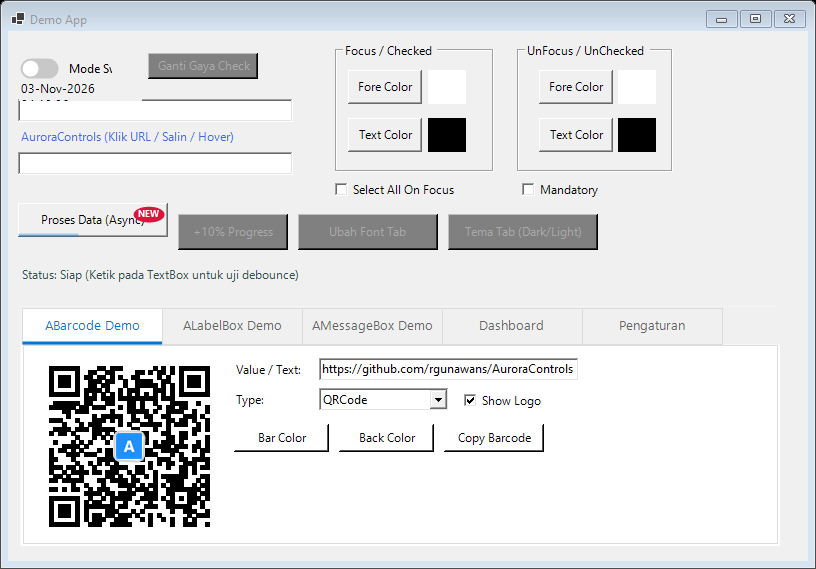
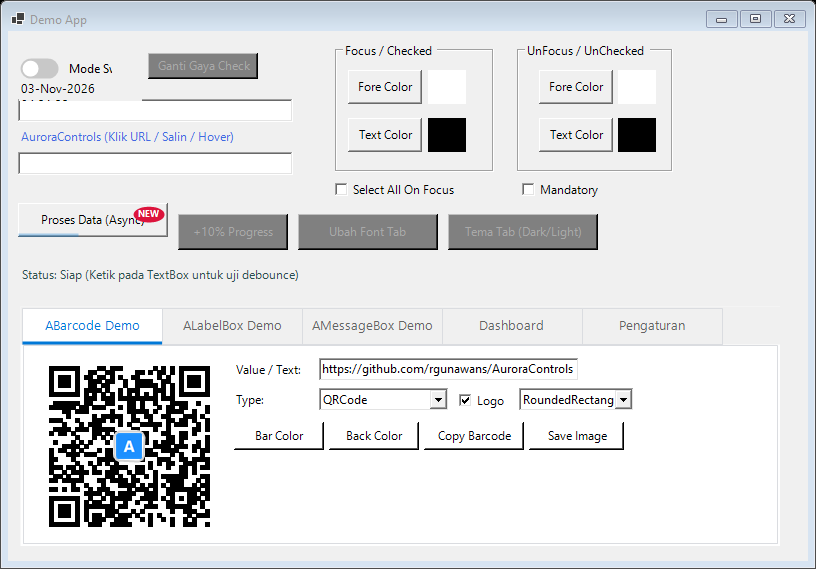
feat(demo): integrate ABarcode showcase into DemoProject and update documentation

Changed region(s): [[0.2757, 0.7469, 0.7659, 0.8067], [0.5515, 0.6573, 0.7966, 0.717]]

diff --git a/src/AuroraControls.Tests/ScreenshotGenerator.cs b/src/AuroraControls.Tests/ScreenshotGenerator.cs
@@ -42,6 +42,7 @@ namespace AuroraControls.Tests
                 CaptureMessageBox(Path.Combine(outDir, "component_amessagebox.png"));
                 CaptureLabelTimer(Path.Combine(outDir, "component_alabeltimer.png"));
                 CaptureLabelBox(Path.Combine(outDir, "component_alabelbox.png"));
+                CaptureBarcode(Path.Combine(outDir, "component_abarcode.png"));
             });
             thread.SetApartmentState(ApartmentState.STA);
             thread.Start();
@@ -522,6 +523,91 @@ namespace AuroraControls.Tests
                 EnableCopyOnClick = true
             };
             form.Controls.Add(lbl3);
+
+            form.Show();
+            Application.DoEvents();
+
+            using var bmp = new Bitmap(form.Width, form.Height);
+            form.DrawToBitmap(bmp, new Rectangle(0, 0, form.Width, form.Height));
+            bmp.Save(filePath, ImageFormat.Png);
+            form.Close();
+        }
+
+        private void CaptureBarcode(string filePath)
+        {
+            using var form = new Form
+            {
+                ClientSize = new Size(580, 240),
+                BackColor = Color.White,
+                FormBorderStyle = FormBorderStyle.None,
+                StartPosition = FormStartPosition.Manual,
+                Location = new Point(100, 100)
+            };
+
+            var title = new Label
+            {
+                Text = "ABarcode Component (1D & 2D Barcode, Color, Logo)",
+                Font = new Font("Segoe UI", 12f, FontStyle.Bold),
+                ForeColor = Color.FromArgb(33, 37, 41),
+                Location = new Point(20, 15),
+                AutoSize = true
+            };
+            form.Controls.Add(title);
+
+            // Sample Aurora logo
+            var logo = new Bitmap(36, 36);
+            using (var g = Graphics.FromImage(logo))
+            {
+                g.SmoothingMode = SmoothingMode.AntiAlias;
+                g.Clear(Color.DodgerBlue);
+                using (var f = new Font("Segoe UI", 16f, FontStyle.Bold))
+                using (var b = new SolidBrush(Color.White))
+                using (var sf = new StringFormat { Alignment = StringAlignment.Center, LineAlignment = StringAlignment.Center })
+                {
+                    g.DrawString("A", f, b, new RectangleF(0, 0, 36, 36), sf);
+                }
+            }
+
+            // QR Code with Logo & Custom ForeColor
+            var qr = new ABarcode
+            {
+                Location = new Point(25, 50),
+                Size = new Size(160, 160),
+                BarcodeType = BarcodeType.QRCode,
+                Value = "https://github.com/rgunawans/AuroraControls",
+                ForeColor = Color.MidnightBlue,
+                BackColor = Color.FromArgb(248, 249, 250),
+                Logo = logo,
+                LogoShape = BarcodeLogoShape.RoundedRectangle,
+                LogoSizePercent = 25
+            };
+            form.Controls.Add(qr);
+
+            // Code 128
+            var code128 = new ABarcode
+            {
+                Location = new Point(205, 50),
+                Size = new Size(350, 75),
+                BarcodeType = BarcodeType.Code128,
+                Value = "AURORA-128-DEMO",
+                ForeColor = Color.Black,
+                BackColor = Color.FromArgb(248, 249, 250),
+                ShowText = true
+            };
+            form.Controls.Add(code128);
+
+            // Code 39
+            var code39 = new ABarcode
+            {
+                Location = new Point(205, 135),
+                Size = new Size(350, 75),
+                BarcodeType = BarcodeType.Code39,
+                Value = "CODE39-OK",
+                ForeColor = Color.DarkSlateGray,
+                BackColor = Color.FromArgb(248, 249, 250),
+                ShowText = true
+            };
+            form.Controls.Add(code39);
 
             form.Show();
             Application.DoEvents();

diff --git a/src/DemoProject/FormDemo.cs b/src/DemoProject/FormDemo.cs
@@ -505,10 +505,15 @@ namespace DemoProject
                 }
             };
 
-            var chkLogo = new CheckBox { Text = "Show Logo", Checked = true, Location = new Point(leftCol + 230, 44), AutoSize = true };
+            var chkLogo = new CheckBox { Text = "Logo", Checked = true, Location = new Point(leftCol + 225, 44), AutoSize = true };
             chkLogo.CheckedChanged += (s, e) => barcode.Logo = chkLogo.Checked ? sampleLogo : null;
 
-            var btnFore = new Button { Text = "Bar Color", Location = new Point(leftCol, 78), Width = 95, Height = 28 };
+            var cmbShape = new ComboBox { Location = new Point(leftCol + 285, 42), Width = 115, DropDownStyle = ComboBoxStyle.DropDownList };
+            cmbShape.Items.AddRange(new object[] { BarcodeLogoShape.RoundedRectangle, BarcodeLogoShape.Circle, BarcodeLogoShape.Rectangle });
+            cmbShape.SelectedItem = BarcodeLogoShape.RoundedRectangle;
+            cmbShape.SelectedIndexChanged += (s, e) => barcode.LogoShape = (BarcodeLogoShape)cmbShape.SelectedItem;
+
+            var btnFore = new Button { Text = "Bar Color", Location = new Point(leftCol, 76), Width = 90, Height = 28 };
             btnFore.Click += (s, e) =>
             {
                 using (var cd = new ColorDialog { Color = barcode.ForeColor })
@@ -517,7 +522,7 @@ namespace DemoProject
                 }
             };
 
-            var btnBack = new Button { Text = "Back Color", Location = new Point(leftCol + 105, 78), Width = 95, Height = 28 };
+            var btnBack = new Button { Text = "Back Color", Location = new Point(leftCol + 95, 76), Width = 90, Height = 28 };
             btnBack.Click += (s, e) =>
             {
                 using (var cd = new ColorDialog { Color = barcode.BackColor })
@@ -526,11 +531,24 @@ namespace DemoProject
                 }
             };
 
-            var btnCopy = new Button { Text = "Copy Barcode", Location = new Point(leftCol + 210, 78), Width = 100, Height = 28 };
+            var btnCopy = new Button { Text = "Copy Barcode", Location = new Point(leftCol + 190, 76), Width = 100, Height = 28 };
             btnCopy.Click += (s, e) =>
             {
                 barcode.CopyToClipboard();
-                MessageBox.Show("Barcode image copied to clipboard!", "Notice", MessageBoxButtons.OK, MessageBoxIcon.Information);
+                lblStatus.Text = "Barcode berhasil disalin ke clipboard!";
+            };
+
+            var btnSave = new Button { Text = "Save Image", Location = new Point(leftCol + 295, 76), Width = 95, Height = 28 };
+            btnSave.Click += (s, e) =>
+            {
+                using (var sfd = new SaveFileDialog { Filter = "PNG Image|*.png|JPEG Image|*.jpg|Bitmap|*.bmp", FileName = "barcode.png" })
+                {
+                    if (sfd.ShowDialog() == DialogResult.OK)
+                    {
+                        barcode.SaveImage(sfd.FileName);
+                        lblStatus.Text = $"Barcode tersimpan: {System.IO.Path.GetFileName(sfd.FileName)}";
+                    }
+                }
             };
 
             tab.Controls.Add(barcode);
@@ -539,9 +557,11 @@ namespace DemoProject
             tab.Controls.Add(lblType);
             tab.Controls.Add(cmbType);
             tab.Controls.Add(chkLogo);
+            tab.Controls.Add(cmbShape);
             tab.Controls.Add(btnFore);
             tab.Controls.Add(btnBack);
             tab.Controls.Add(btnCopy);
+            tab.Controls.Add(btnSave);
         }
 
         private void FormDemo_Load(object sender, EventArgs e)

diff --git a/README.md b/README.md
@@ -85,6 +85,30 @@ Live clock and interval timer label with real-time formatting.
 
 ---
 
+#### 7. ALabelBox
+Modern web-like label with hover effects, URL navigation, and one-click clipboard copying.
+
+![ALabelBox](docs/images/component_alabelbox.png)
+
+* **Hover Effects**: `HoverForeColor`, `HoverBackColor`, `HoverUnderline`, and `HoverCursor`.
+* **Hyperlink Navigation**: `IsLink = true`, `Url`, and `LinkClicked` event.
+* **Clipboard Copy**: `EnableCopyOnClick = true`, `CopyText`, context menu, and tooltip feedback.
+
+---
+
+#### 8. ABarcode
+Lightweight 1D and 2D barcode generator with custom colors and logo embedding. Zero external dependencies.
+
+![ABarcode](docs/images/component_abarcode.png)
+
+* **Symbologies**: 2D `QRCode` (ISO/IEC 18004) and 1D `Code128`, `Code39`, `EAN13`.
+* **Color Customization**: Custom `ForeColor` (bars/modules) and `BackColor`.
+* **Logo Embedding**: `Logo` image in center with customizable `LogoShape` (`Rectangle`, `RoundedRectangle`, `Circle`), padding, and border.
+* **Error Correction**: `ErrorCorrection` levels (Low, Medium, Quartile, High) with auto-high protection for logos.
+* **Exporting**: `GenerateImage()`, `SaveImage()`, and `CopyToClipboard()`.
+
+---
+
 ### Getting Started
 
 1. **Clone the repository:**
